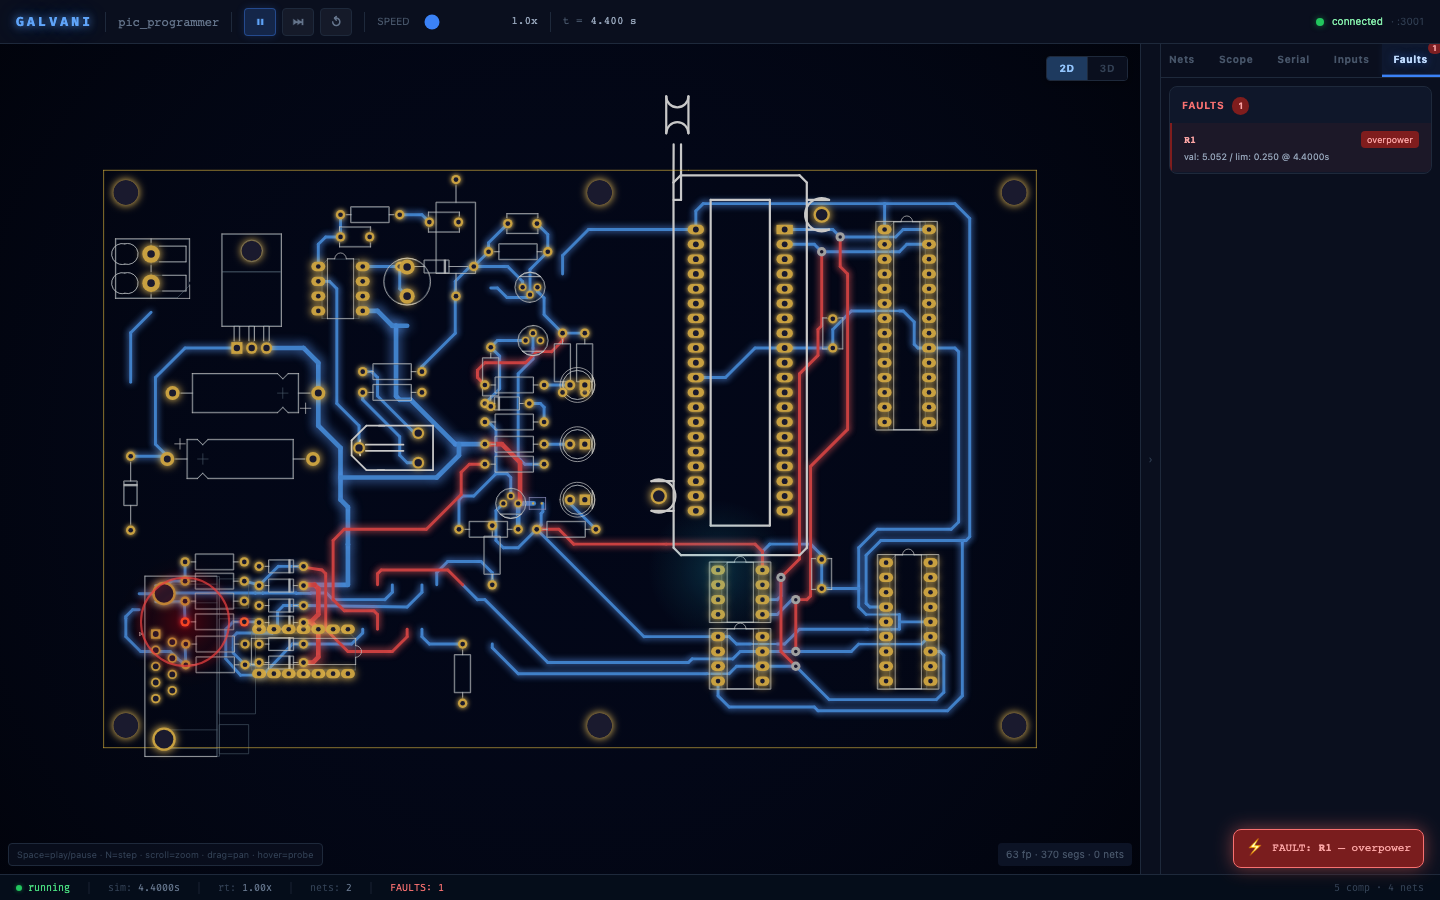
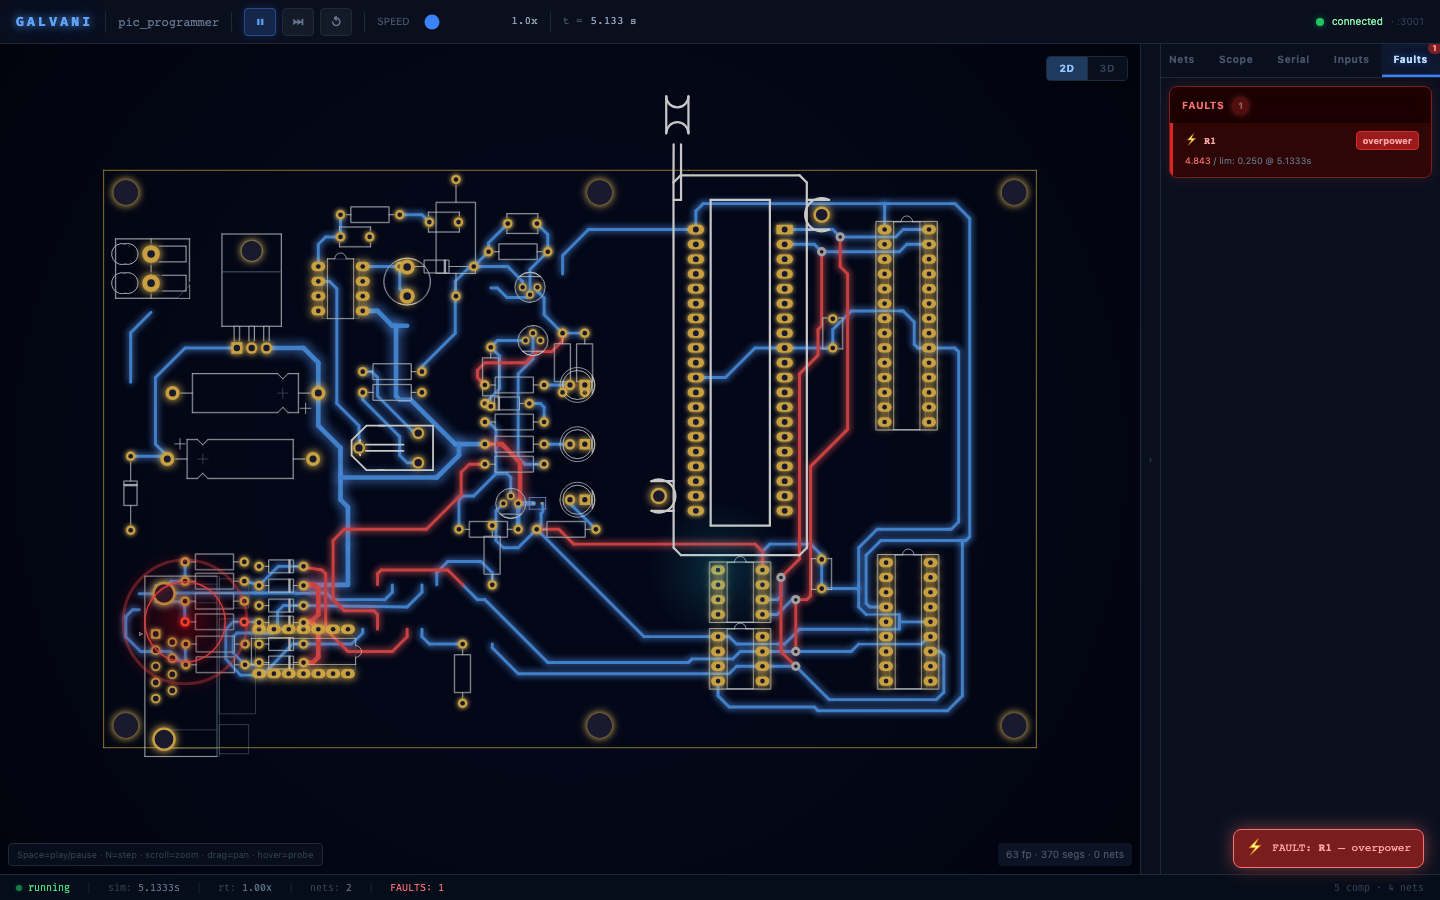
frontend: fault urgency and scope phosphor polish pass
Fault panel: dark red panel background when faults active, pulsing
badge, double-ring overlay at 2Hz (was 1Hz), stronger shadowBlur,
⚡ icon on each fault entry, brighter value highlighting.

Scope: tighter crop for screenshot clarity; 7s fill time for dense
square-wave waveform at 5Hz blink rate.

Beauty shots updated: scope.png and faults.png recaptured.

Changed region(s): [[0.8125, 0.0933, 1.0, 0.2178], [0.0938, 0.6222, 0.1875, 0.7778]]

diff --git a/frontend/src/components/FaultPanel.tsx b/frontend/src/components/FaultPanel.tsx
@@ -54,10 +54,12 @@ export function FaultPanel({ frame, onFaultComponentSelect, selectedFaultRef }: 
       <div
         className="flex flex-col gap-1"
         style={{
-          background: '#0f172a',
-          border: '1px solid #1e293b',
+          background: faults.length > 0 ? 'rgba(30,0,0,0.95)' : '#0f172a',
+          border: faults.length > 0 ? '1px solid #7f1d1d' : '1px solid #1e293b',
           borderRadius: 8,
           overflow: 'hidden',
+          boxShadow: faults.length > 0 ? '0 0 16px rgba(248,71,71,0.15), inset 0 0 20px rgba(127,29,29,0.08)' : 'none',
+          transition: 'all 0.3s ease',
         }}
       >
         <div className="px-3 pt-2.5 pb-1 flex items-center gap-2">
@@ -69,8 +71,12 @@ export function FaultPanel({ frame, onFaultComponentSelect, selectedFaultRef }: 
           </span>
           {faults.length > 0 && (
             <span
-              className="text-[9px] font-bold px-1.5 py-0.5 rounded-full"
-              style={{ background: '#7f1d1d', color: '#fca5a5' }}
+              className="text-[9px] font-bold px-1.5 py-0.5 rounded-full animate-pulse"
+              style={{
+                background: '#7f1d1d',
+                color: '#fca5a5',
+                boxShadow: '0 0 6px rgba(248,113,113,0.6)',
+              }}
             >
               {faults.length}
             </span>
@@ -100,27 +106,36 @@ export function FaultPanel({ frame, onFaultComponentSelect, selectedFaultRef }: 
                   onClick={() => onFaultComponentSelect?.(isSelected ? null : f.component)}
                   className="flex flex-col gap-0.5 px-3 py-2 cursor-pointer hover:opacity-90"
                   style={{
-                    background: isSelected ? '#3b0a0a' : 'rgba(127,29,29,0.12)',
-                    borderLeft: isSelected ? '2px solid #f87171' : '2px solid #7f1d1d',
+                    background: isSelected ? '#4a0a0a' : 'rgba(127,29,29,0.2)',
+                    borderLeft: isSelected ? '3px solid #f87171' : '3px solid #dc2626',
                     marginBottom: 1,
+                    boxShadow: isSelected ? 'inset 0 0 12px rgba(248,71,71,0.1)' : 'none',
                   }}
                 >
                   <div className="flex items-center justify-between">
+                    <div className="flex items-center gap-1.5">
+                      <span style={{ color: '#f87171', fontSize: 10 }}>⚡</span>
+                      <span
+                        className="text-[10px] font-mono font-bold"
+                        style={{ color: '#fca5a5', fontFamily: "'JetBrains Mono', monospace" }}
+                      >
+                        {f.component}
+                      </span>
+                    </div>
                     <span
-                      className="text-[10px] font-mono font-bold"
-                      style={{ color: '#fca5a5', fontFamily: "'JetBrains Mono', monospace" }}
-                    >
-                      {f.component}
-                    </span>
-                    <span
-                      className="text-[9px] px-1.5 py-0.5 rounded"
-                      style={{ background: '#7f1d1d', color: '#fca5a5' }}
+                      className="text-[9px] px-1.5 py-0.5 rounded font-bold"
+                      style={{
+                        background: '#991b1b',
+                        color: '#fca5a5',
+                        border: '1px solid #dc2626',
+                      }}
                     >
                       {f.fault_kind}
                     </span>
                   </div>
-                  <div className="text-[9px]" style={{ color: '#94a3b8' }}>
-                    val: {f.value.toFixed(3)} / lim: {f.limit.toFixed(3)} @ {f.t.toFixed(4)}s
+                  <div className="text-[9px] mt-0.5" style={{ color: '#94a3b8' }}>
+                    <span style={{ color: '#f87171' }}>{f.value.toFixed(3)}</span>
+                    <span style={{ color: '#64748b' }}> / lim: {f.limit.toFixed(3)} @ {f.t.toFixed(4)}s</span>
                   </div>
                 </div>
               )

diff --git a/frontend/src/lib/board-renderer.ts b/frontend/src/lib/board-renderer.ts
@@ -229,9 +229,9 @@ export function renderBoard(
   const hasHighlight = highlightNets && highlightNets.size > 0
   const hasVoltages = netVoltages && netVoltages.size > 0
 
-  // Pulsing factor for fault highlight (0..1, 1Hz)
+  // Pulsing factor for fault highlight (0..1, 2Hz for urgency)
   const faultPulse = faultedRefs && faultedRefs.size > 0
-    ? 0.4 + 0.6 * Math.abs(Math.sin(animTime * Math.PI * 2))
+    ? 0.35 + 0.65 * Math.abs(Math.sin(animTime * Math.PI * 4))
     : 0
 
   // ── Board graphics, grouped by layer ──
@@ -451,12 +451,21 @@ export function renderBoard(
       if (!faultedRefs.has(fp.ref)) continue
       const [fpX, fpY] = ws(cam, fp.at.x, fp.at.y)
       const ringR = Math.max(8, 6 * cam.scale)
+      // Double ring: outer softer, inner crisp
       ctx.beginPath()
-      ctx.arc(fpX, fpY, ringR * (1 + faultPulse * 0.3), 0, Math.PI * 2)
-      ctx.strokeStyle = `rgba(248,71,71,${0.3 + faultPulse * 0.5})`
-      ctx.lineWidth = 2
+      ctx.arc(fpX, fpY, ringR * (1.4 + faultPulse * 0.5), 0, Math.PI * 2)
+      ctx.strokeStyle = `rgba(248,71,71,${0.15 + faultPulse * 0.25})`
+      ctx.lineWidth = 3
       ctx.shadowColor = '#ff2222'
-      ctx.shadowBlur = 10 * faultPulse
+      ctx.shadowBlur = 14 * faultPulse
+      ctx.stroke()
+
+      ctx.beginPath()
+      ctx.arc(fpX, fpY, ringR * (1 + faultPulse * 0.2), 0, Math.PI * 2)
+      ctx.strokeStyle = `rgba(248,71,71,${0.5 + faultPulse * 0.5})`
+      ctx.lineWidth = 1.5
+      ctx.shadowColor = '#ff3333'
+      ctx.shadowBlur = 8 * faultPulse
       ctx.stroke()
       ctx.shadowBlur = 0
     }
